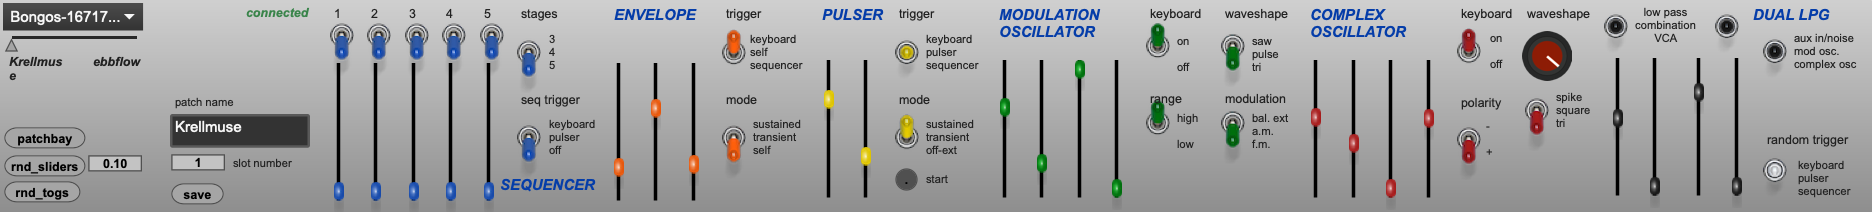
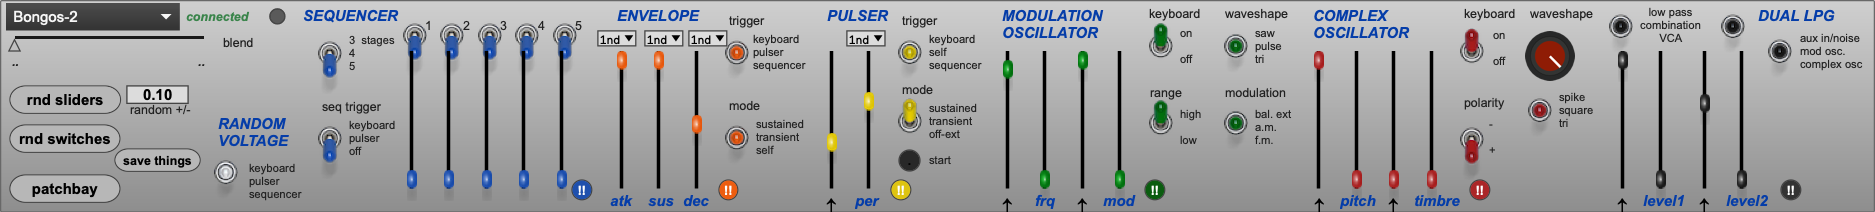
updated image and read me

Changed region(s): [[0.0, 0.0, 1.0, 1.0], [0.0, 0.1981, 0.0929, 0.3113]]

diff --git a/README.md b/README.md
@@ -3,13 +3,14 @@ A Max for Live device that interfaces with the Buchla Program Manager Card.
 ![Screenshot of Buchla Program Manager Max for Live device](m4l_buchlaProgramManager_screen01.png "m4l screenshot")
 
 # Description
-This is not a wholesale replacement for the Buchla Program Manager App. It does, however, allow a lot of the same functions and shares the database with
-the Preset Manager App. While the space alloted for a M4L device radically changes the interface, it does allow automation of parameters.
+This is not a wholesale replacement for the Buchla Program Manager App. It does, however, allow a lot of the same functions and shares the database with the Preset Manager App. While the space allotted for a M4L device radically changes the interface, it does allow automation of parameters.
+
 Due to speed limitations, it's best to limit the amount of automation data sent to the Program Manager Card.
 
-Besides access to the parameters and patch bay, you can also perform special operations on the presets. For example, you can crossfade the slider settings
-between the current and previously selected presets. You can also add random variation expressed as a percentage amount of deviation of all the current slider
-values.
+Besides access to the parameters and patch bay, you can also perform special operations on the presets. For example, you can crossfade the slider settings between the current and previously selected presets. You can also add random variation expressed as a percentage amount of deviation of all the current slider values. You can randomize the sliders wholesale or on a per-section basis. There is also random patching in the patchbay. Click the random button to create a random connection. You can undo those patches too.
 
-Because this device is open source, it provides access to all the sysex strings that address the parameters and connections available in the
-Program Manager Card, so you can dream up your own weird ideas of how to control your Easel Command.
+You can save patches you make to the Program Manager database, and they will appear in the Buchla Program Manager App the next time you open it.
+
+Integrated with live, you can add automation for many of the parameters and randomizations, making for tight integration with your productions. 
+
+Because this device is open source, it provides access to all the sysex strings that address the parameters and connections available in the Program Manager Card, so you can dream up your own weird ideas of how to control your Easel Command.
